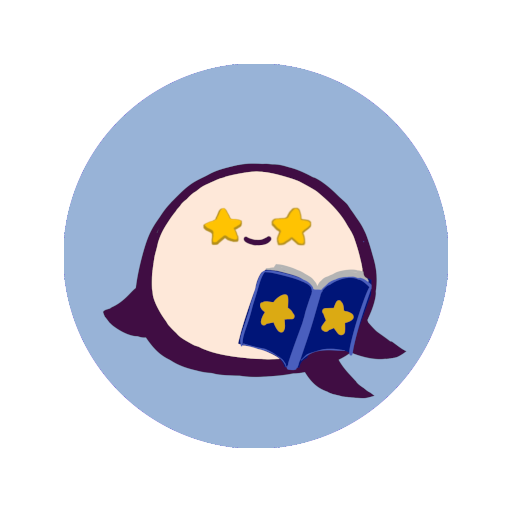
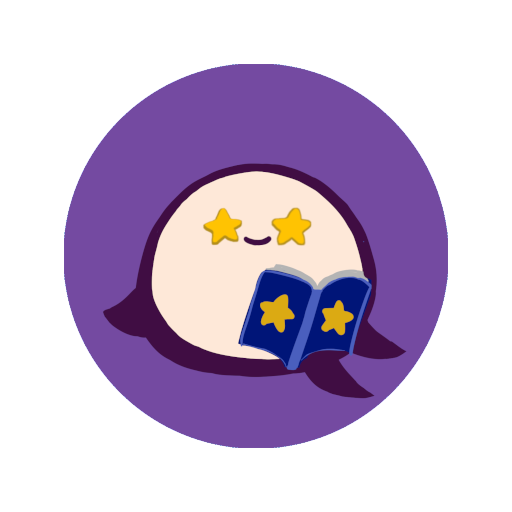
fix

Changed region(s): [[0.125, 0.125, 0.875, 0.875]]

diff --git a/vite.config.ts b/vite.config.ts
@@ -11,7 +11,7 @@ export default defineConfig({
       manifest: {
         name: `nostr-bookmark-viewer3`,
         short_name: 'ぶくまびうあ',
-        theme_color: '#98b3d7',
+        theme_color: '#744aa1',
         icons: [
           {
             src: 'assets/icons/icon-72x72.png',
